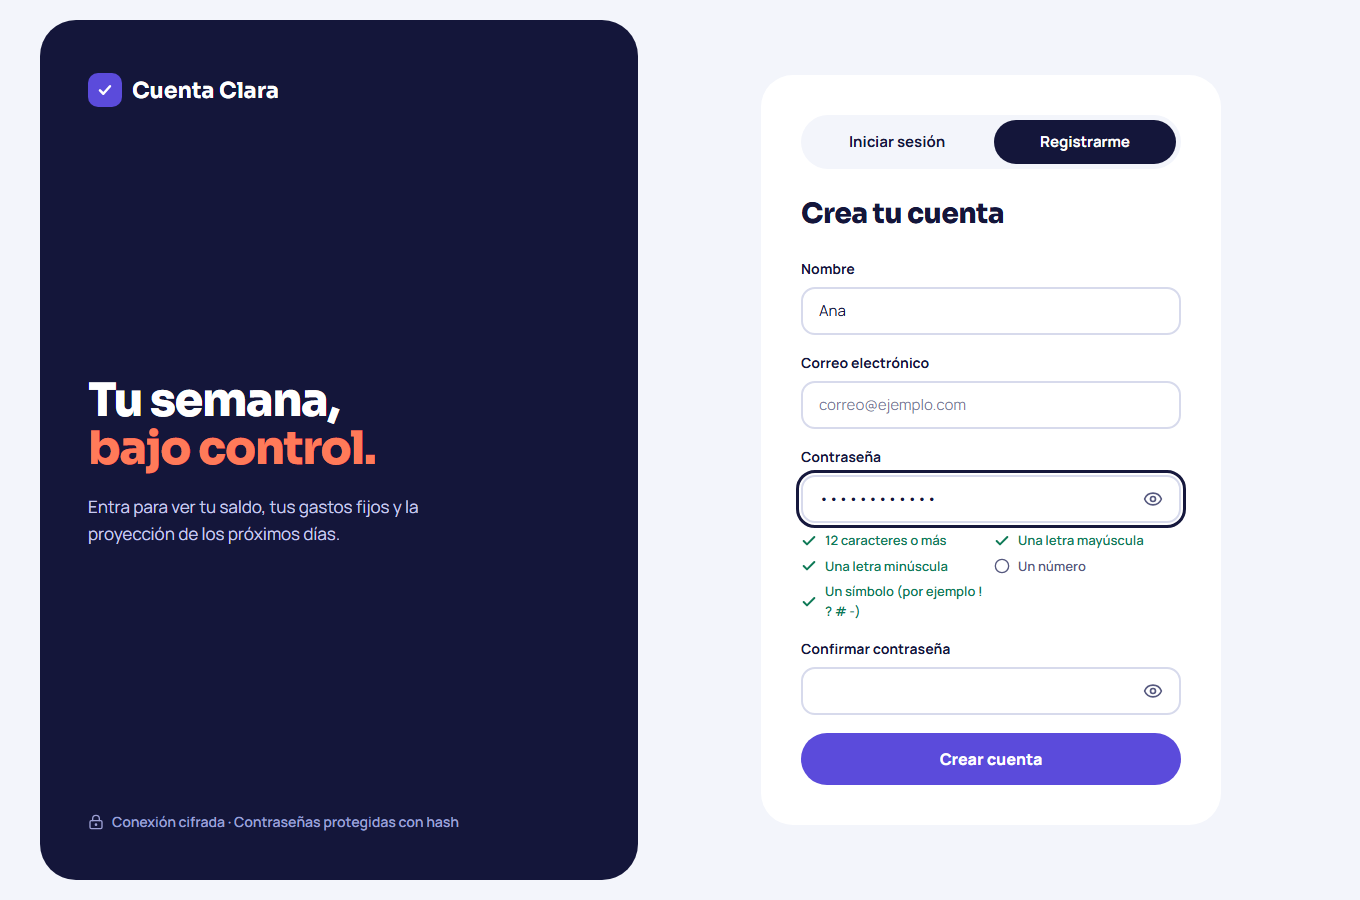
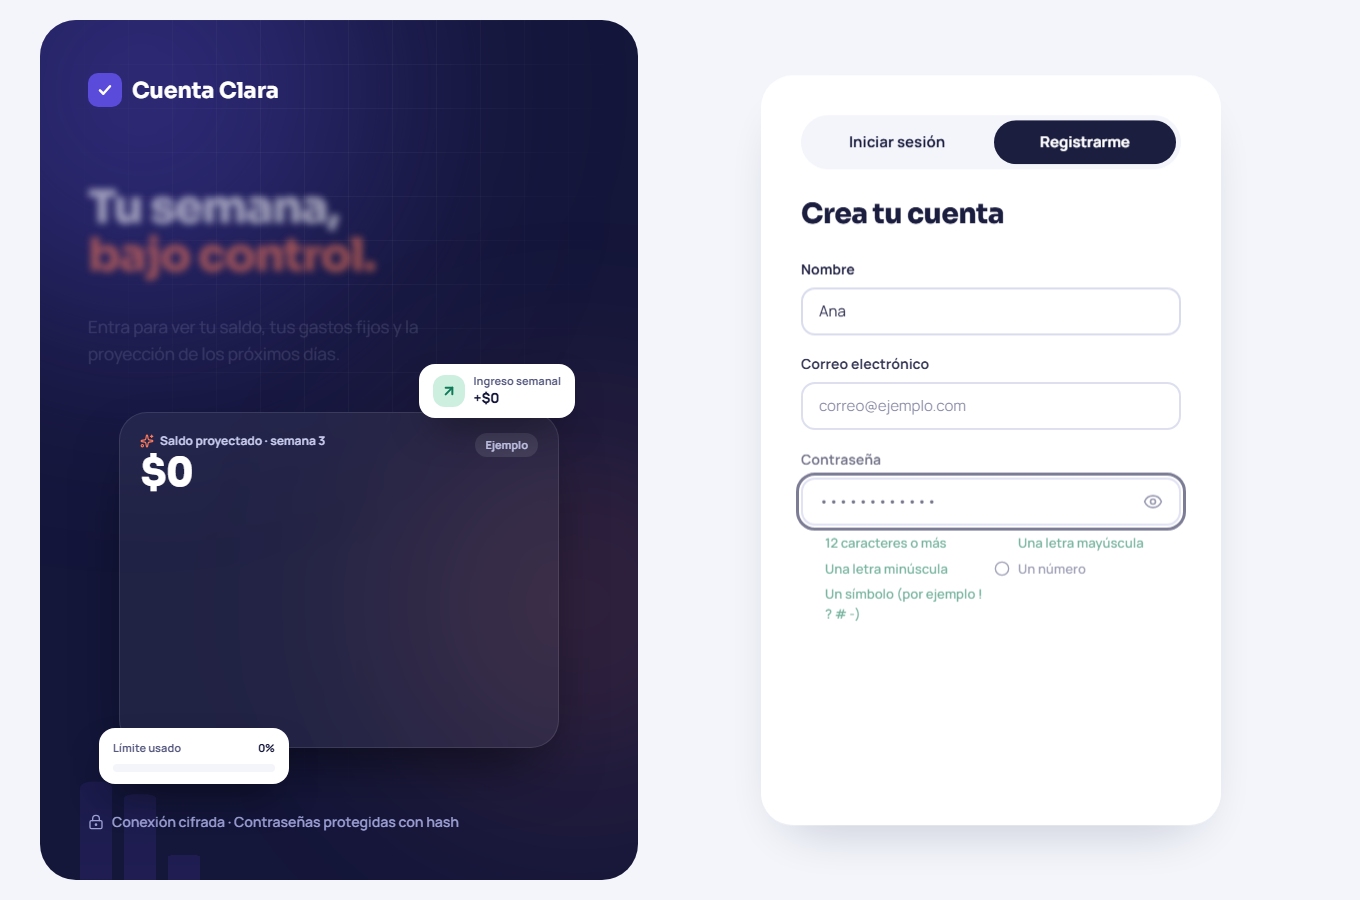
docs: record sign-in redesign decision and refresh screenshots

diff --git a/docs/decisions.md b/docs/decisions.md
@@ -275,3 +275,29 @@ Recharts funciona con la CSP estricta (D-033): la gráfica se renderiza en el cl
 - Con `prefers-reduced-motion` no hay desplazamientos ni flotación.
 - Las copias decorativas (la píldora y el indicador) están ocultas a lectores de pantalla y no reciben clics.
 - La auditoría axe sigue pasando en todas las pantallas.
+
+## D-059 · Inicio de sesión y registro con una proyección animada
+
+**Fase 9 (ajuste de diseño).** El panel oscuro tenía solo texto. Ahora muestra lo que hace el producto: predecir.
+
+- **Proyección ilustrativa:** usa las cifras del ejemplo del producto (100 − 30 + 160 = 230, luego +130 por semana) y lleva la etiqueta "Ejemplo", así que no pretende ser información real del visitante.
+  - La línea se dibuja de izquierda a derecha.
+  - La franja de estimación "respira", porque el futuro es una estimación, no un hecho.
+  - "Hoy" late como un marcador en vivo.
+  - Un punto recorre la predicción.
+  - Las cifras cuentan desde 0 con `@property` y `counter()`, solo con CSS.
+  - Dos tarjetas flotan con las entradas del cálculo.
+- **Barras de fondo:** suben en ola detrás del mensaje "Tu semana, bajo control" y siguen moviéndose suavemente.
+- **Sin JavaScript:** todo es SVG y CSS, así que se renderiza en el servidor con la CSP de nonce. En celulares se oculta la gráfica para no empujar el formulario hacia abajo.
+- **Pestañas:** pasaron al *layout* compartido. Como no se desmontan al cambiar de página, la píldora activa se desliza entre "Iniciar sesión" y "Registrarme" (`clip-path` sobre una copia, 320 ms).
+- **Botón principal:**
+  - Al pasar el mouse se eleva 2 px con un brillo de su color y la flecha avanza.
+  - Se aprieta al presionarlo.
+  - Mientras espera, el texto se difumina y aparece un indicador de carga.
+- **Formulario:**
+  - Los campos entran escalonados.
+  - Cada requisito de contraseña cumplido hace "pop".
+  - Un error del servidor llega con una sacudida corta.
+  - El borde del campo activo se vuelve violeta.
+- **Corrección:** en Tailwind v4, `scale-*` y `translate-*` usan sus propias propiedades CSS. La transición de los botones solo listaba `transform`, así que la presión y el crecimiento al pasar el mouse saltaban sin animarse. Ahora se listan `scale` y `translate`.
+- **Movimiento reducido:** con `prefers-reduced-motion` no hay bucles (franja, pulso, flotación, punto viajero ni barras): solo el estado final.
